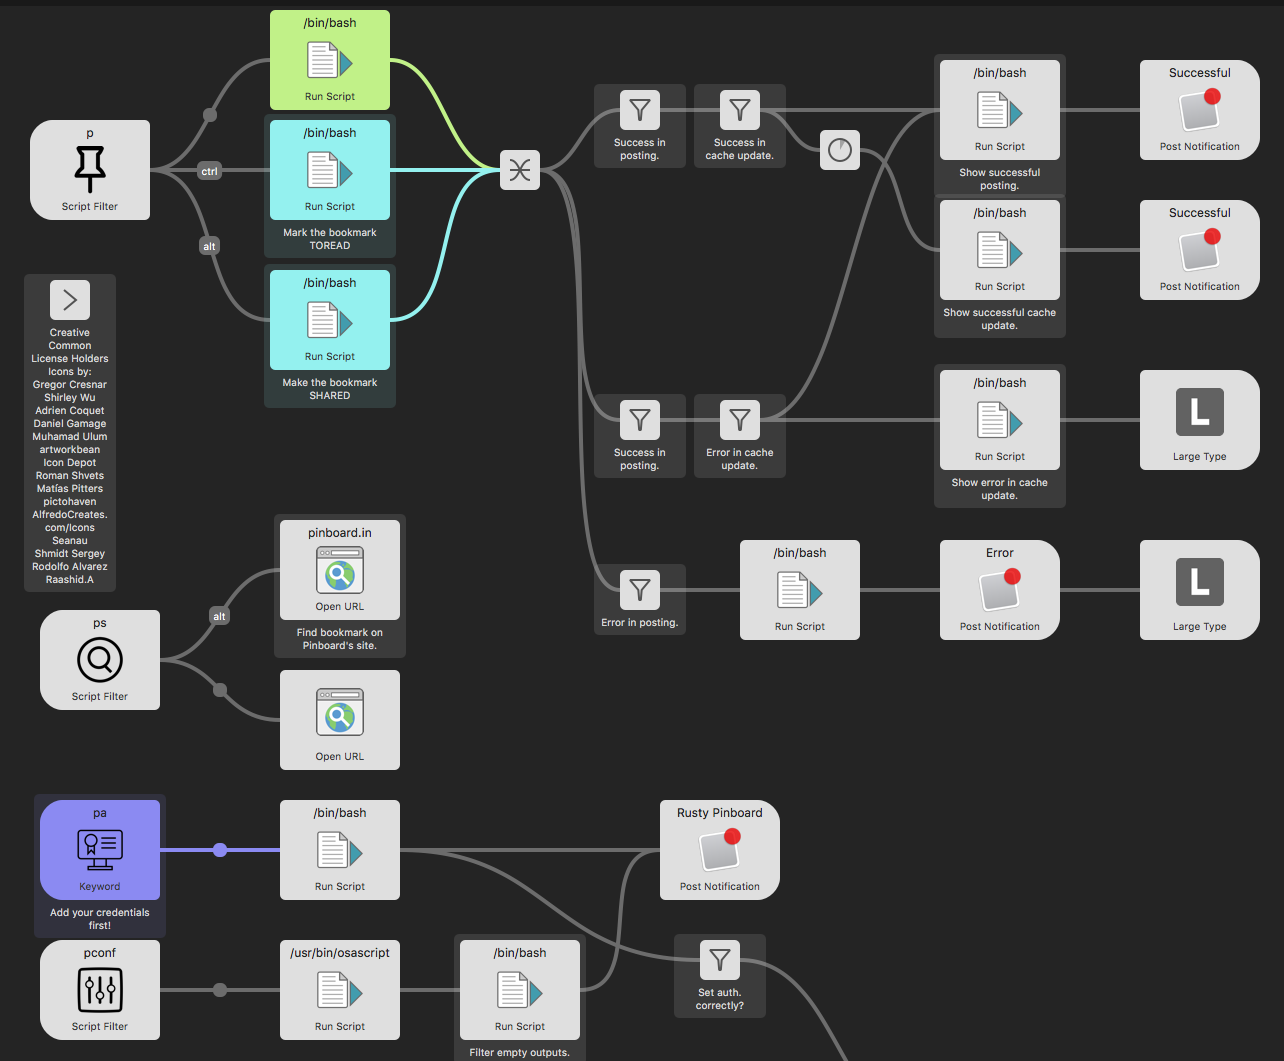
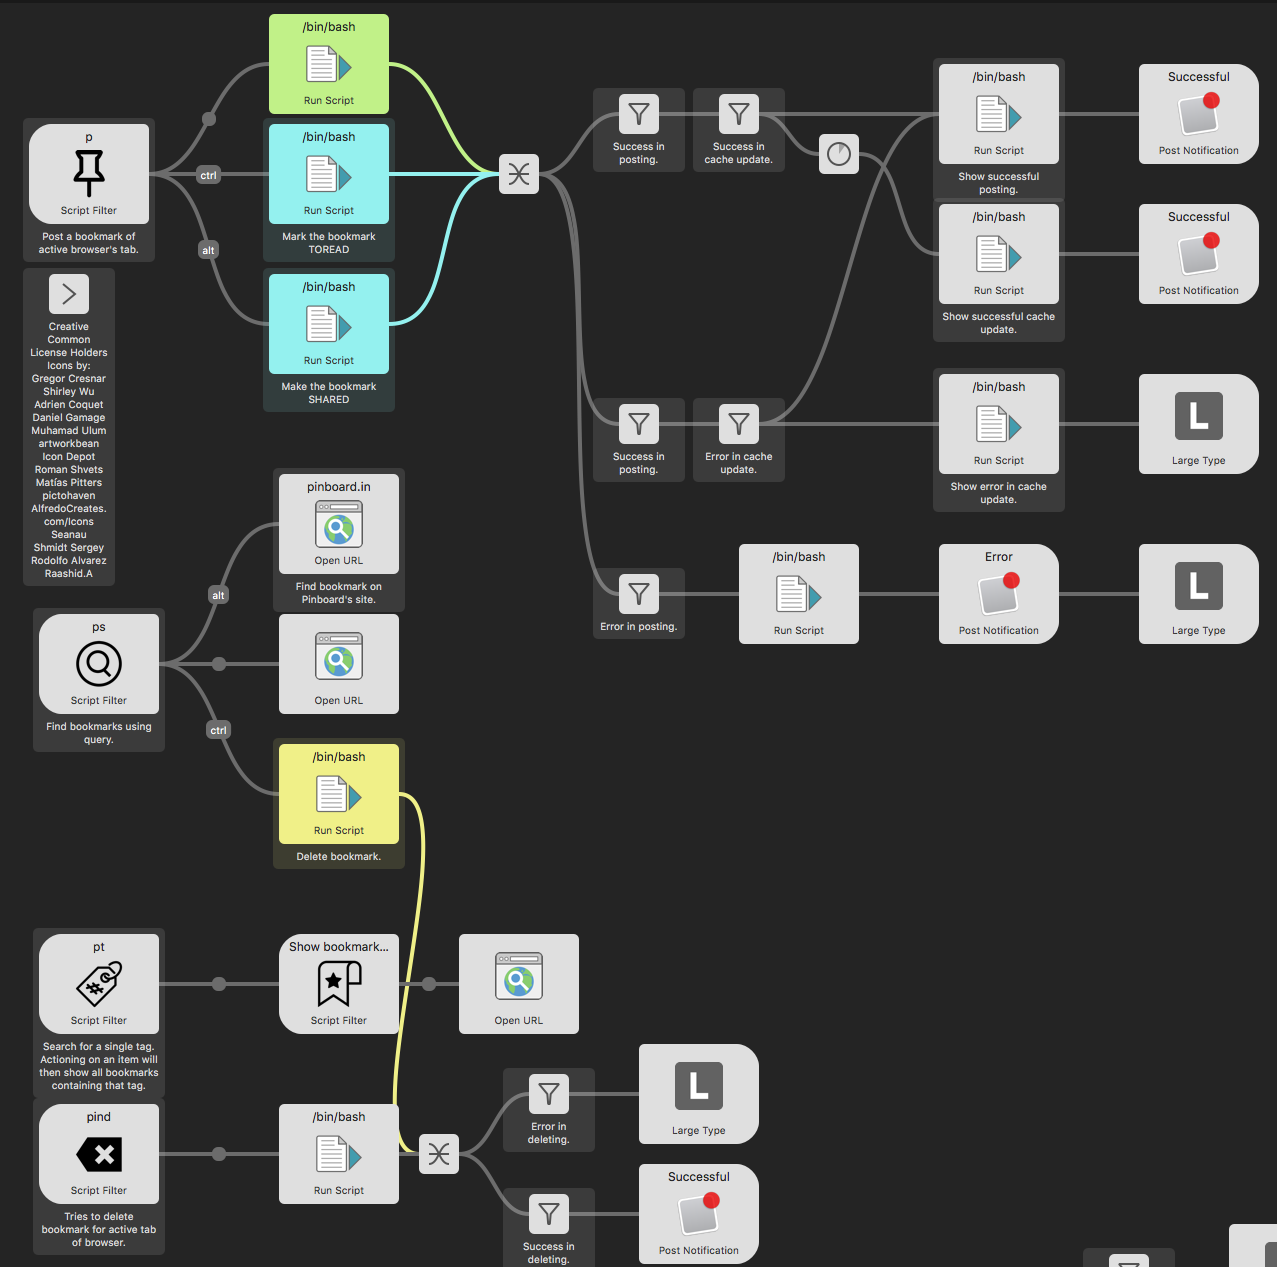
Add popular tag info to README.md
- Show how to delete a bookmark.
- Update TODO list
- Add Known Issues
- Support new names for FirefoxDeveloperEdition and
SafariTechnologyPreview.

diff --git a/README.md b/README.md
@@ -46,6 +46,8 @@ To manually update the cache, you need to issue the ***`pu`*** command:
 
 ![image](./res/images/update.png)
 
+---
+
 ## Usage (post a bookmark):
 The syntax to post a bookmark to Pinboard is :
 
@@ -55,12 +57,14 @@ p tag1 tag2 tag3 ; some optional note
 
 The workflow will show a list of your current tags as you are typing:
 
-![image](./res/images/tag-suggestion-1.png)
+![image](./res/images/non-fuzzy-search-tags.png)
 
 The number below each tag shows how many times you have used it in Pinboard bookmarks.
 You can move Alfred's highlighter to the desired tag and hit '**Tab**' to **autocomplete** it.
 
 To finish the process just press Enter.
+
+- If tag suggestion feature is enabled (see `pset seggess_tags`), 3 popular tags based on current active webpage will be added to the list of your tags. The list is fetched from Pinboard's API and is often helpful. However this feature will add a 1 second delay to showing the tag list after first keystroke. This delay is disabled for consequent keystrokes as the fetched popular tags are cached. ![image](./res/images/popular-tags.png)
 
 #### Modifiers (<kbd>Control ⌃, Option ⌥</kbd>)
 You can hold down modifiers to one-time change some of your settings:
@@ -94,10 +98,14 @@ You can hold down modifiers to enable different behavior:
 - <kbd>Control ⌃</kbd> : will show the extended description of selected bookmark.
 - <kbd>Command ⌘</kbd> : will show tags of selected bookmark.
 - <kbd>Option ⌥</kbd> : Holding `⌥` and pressing enter will open the bookmark in [Pinboard's website](https://pinboard.in).
-- <kbd>Shift ⇧</kbd>: Tap ⇧ to load a preview of bookmark without opening your browser 😎
+- <kbd>Shift ⇧</kbd>: **Tap** ⇧ to load a preview of bookmark without opening your browser 😎 ⤵
 
 ![image](./res/images/quicklook-preview.png)
 
+## Usage (delete a bookmark):
+To delete a bookmark, just make sure it is opened in your current broweser's window. Then use `pind`.
+
+![image](./res/images/delete-pin.png)
 
 ## Settings<a name="config"></a>
 
@@ -108,16 +116,6 @@ You can configure the behavior of workflow by entering `pconf` in Alfred:
 Selecting each setting and hitting ⏎ (<kbd>Enter</kbd>) will let you adjust it:
 
 ![image](./res/images/set-fuzzy.png)
-
-Most of configuration settings are self-explanatory, however `fuzzy` search may need a demo:
-
-When fuzzy search is enabled, the tags/bookmarks that contain the query letters in the given order are displayed:
-
-![image](./res/images/fuzzy-search-tags.png)
-
-Otherwise, _normal_ search will search for consecutive characters in query:
-
-![image](./res/images/tag-suggestion-1.png)
 
 On top of using `pconf`, you can directly type following commands to also adjust the settings:
 
@@ -130,6 +128,17 @@ On top of using `pconf`, you can directly type following commands to also adjust
 - `pset tags`: Set number of tags to show: `pset tags 25`
 - `pset bookmarks`: Set number of bookmarks to show: `pset bookmarks 12`
 
+Most of configuration settings are self-explanatory.
+
+- However `fuzzy` search may need a demo: When fuzzy search is enabled, the tags/bookmarks that contain the query letters in the given order are displayed:
+ 
+  ![image](./res/images/fuzzy-search-tags.png)
+
+  Otherwise, _normal_ search will search for consecutive characters in query:
+  
+  ![image](./res/images/non-fuzzy-search-tags.png)
+
+
 ## Misc.
 - This workflow tries to show some helpful errors in different cases.
 ![image](./res/images/error-1.png)
@@ -139,13 +148,16 @@ On top of using `pconf`, you can directly type following commands to also adjust
 
 ![image](./res/images/workflow-screenshot.png)
 
-## TODO / Missing features
+## Known Issues
+- Posting bookmark from Firefox while tag suggestions is enabled is broken. Alfred intercepts <kbd>Command-L</kbd> used in AppleScript to focus location bar of Firefox. This is needed to get url and other info out of Firefox. Unfortunately Firefox does not offer any better way of interacting with it from outside world programatically.
+
+## TODO
 
 I wish to add the following in the coming releases:
 
-- Let users delete a selected bookmark from witin Alfred.
-- Add a proper logging facility to Rust code.
-- Use a better error mechanism (maybe [failure](https://crates.io/crates/failure)?)
+- ~~Let users delete a selected bookmark from witin Alfred.~~
+- ~~Add a proper logging facility to Rust code.~~ (uses log_env)
+- ~~Use a better error mechanism (maybe [failure](https://crates.io/crates/failure)?)~~
 
 
 ## Feedback / Bugs
